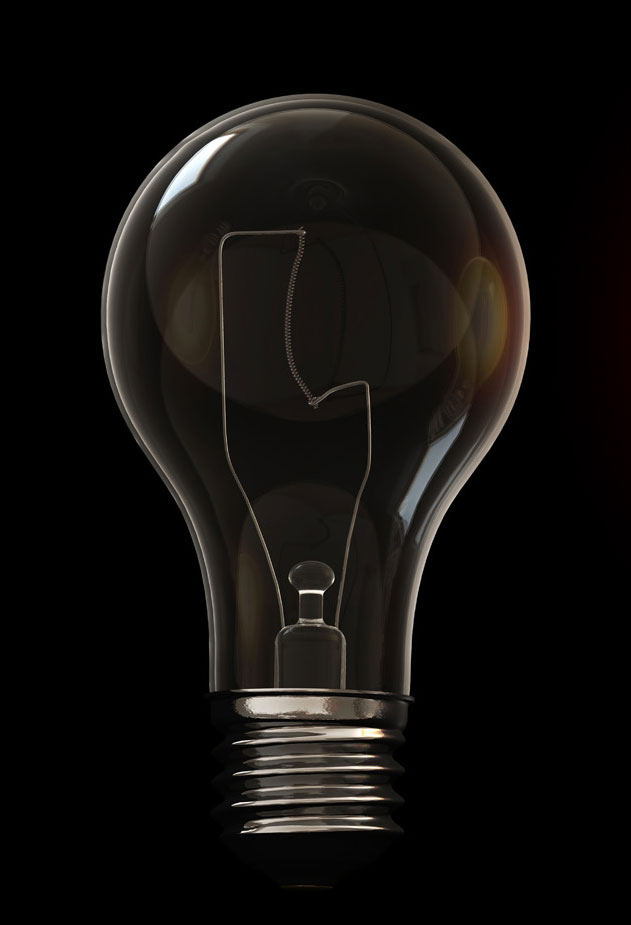
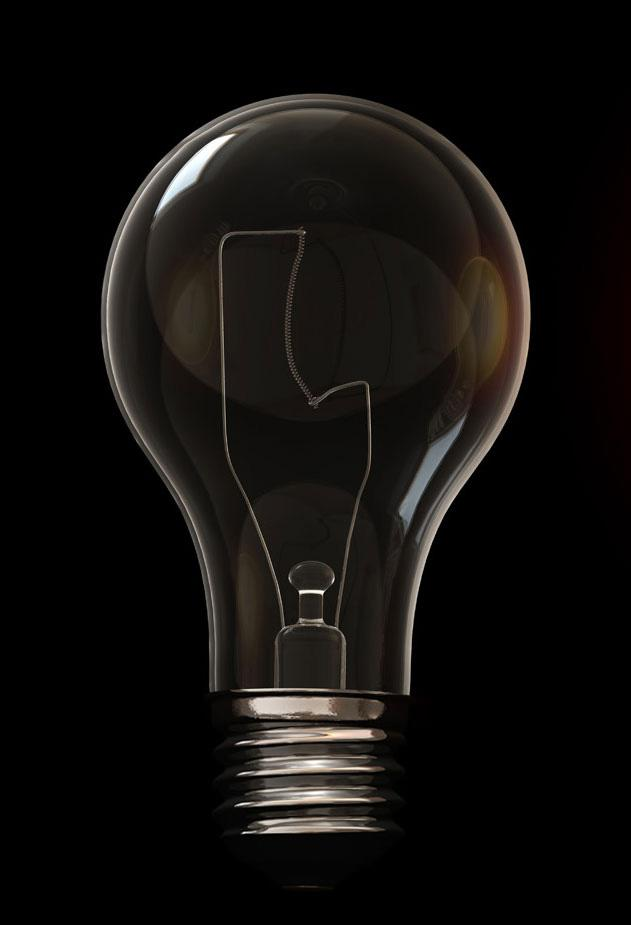
update balb image

Changed region(s): [[0.3613, 0.7568, 0.6624, 0.9081]]

diff --git a/index.js b/index.js
@@ -17,4 +17,4 @@ import Bingo from './src/screens/5_Bingo';
 import SomeScene from './src/screens/TestPicker';
 import ShowSlide from './src/screens/6_ShowSlide';
 
-AppRegistry.registerComponent(appName, () => ShowSlide);
+AppRegistry.registerComponent(appName, () => TheLight);

diff --git a/src/screens/3_TurnOffTheLight.js b/src/screens/3_TurnOffTheLight.js
@@ -26,6 +26,7 @@ function TheLight() {
         <View style={styles.topView}>
           <Image
             style={styles.styleImage}
+            resizeMode="contain"
             source={
               isEnabled
                 ? require('../assets/BulbOn.jpg')
